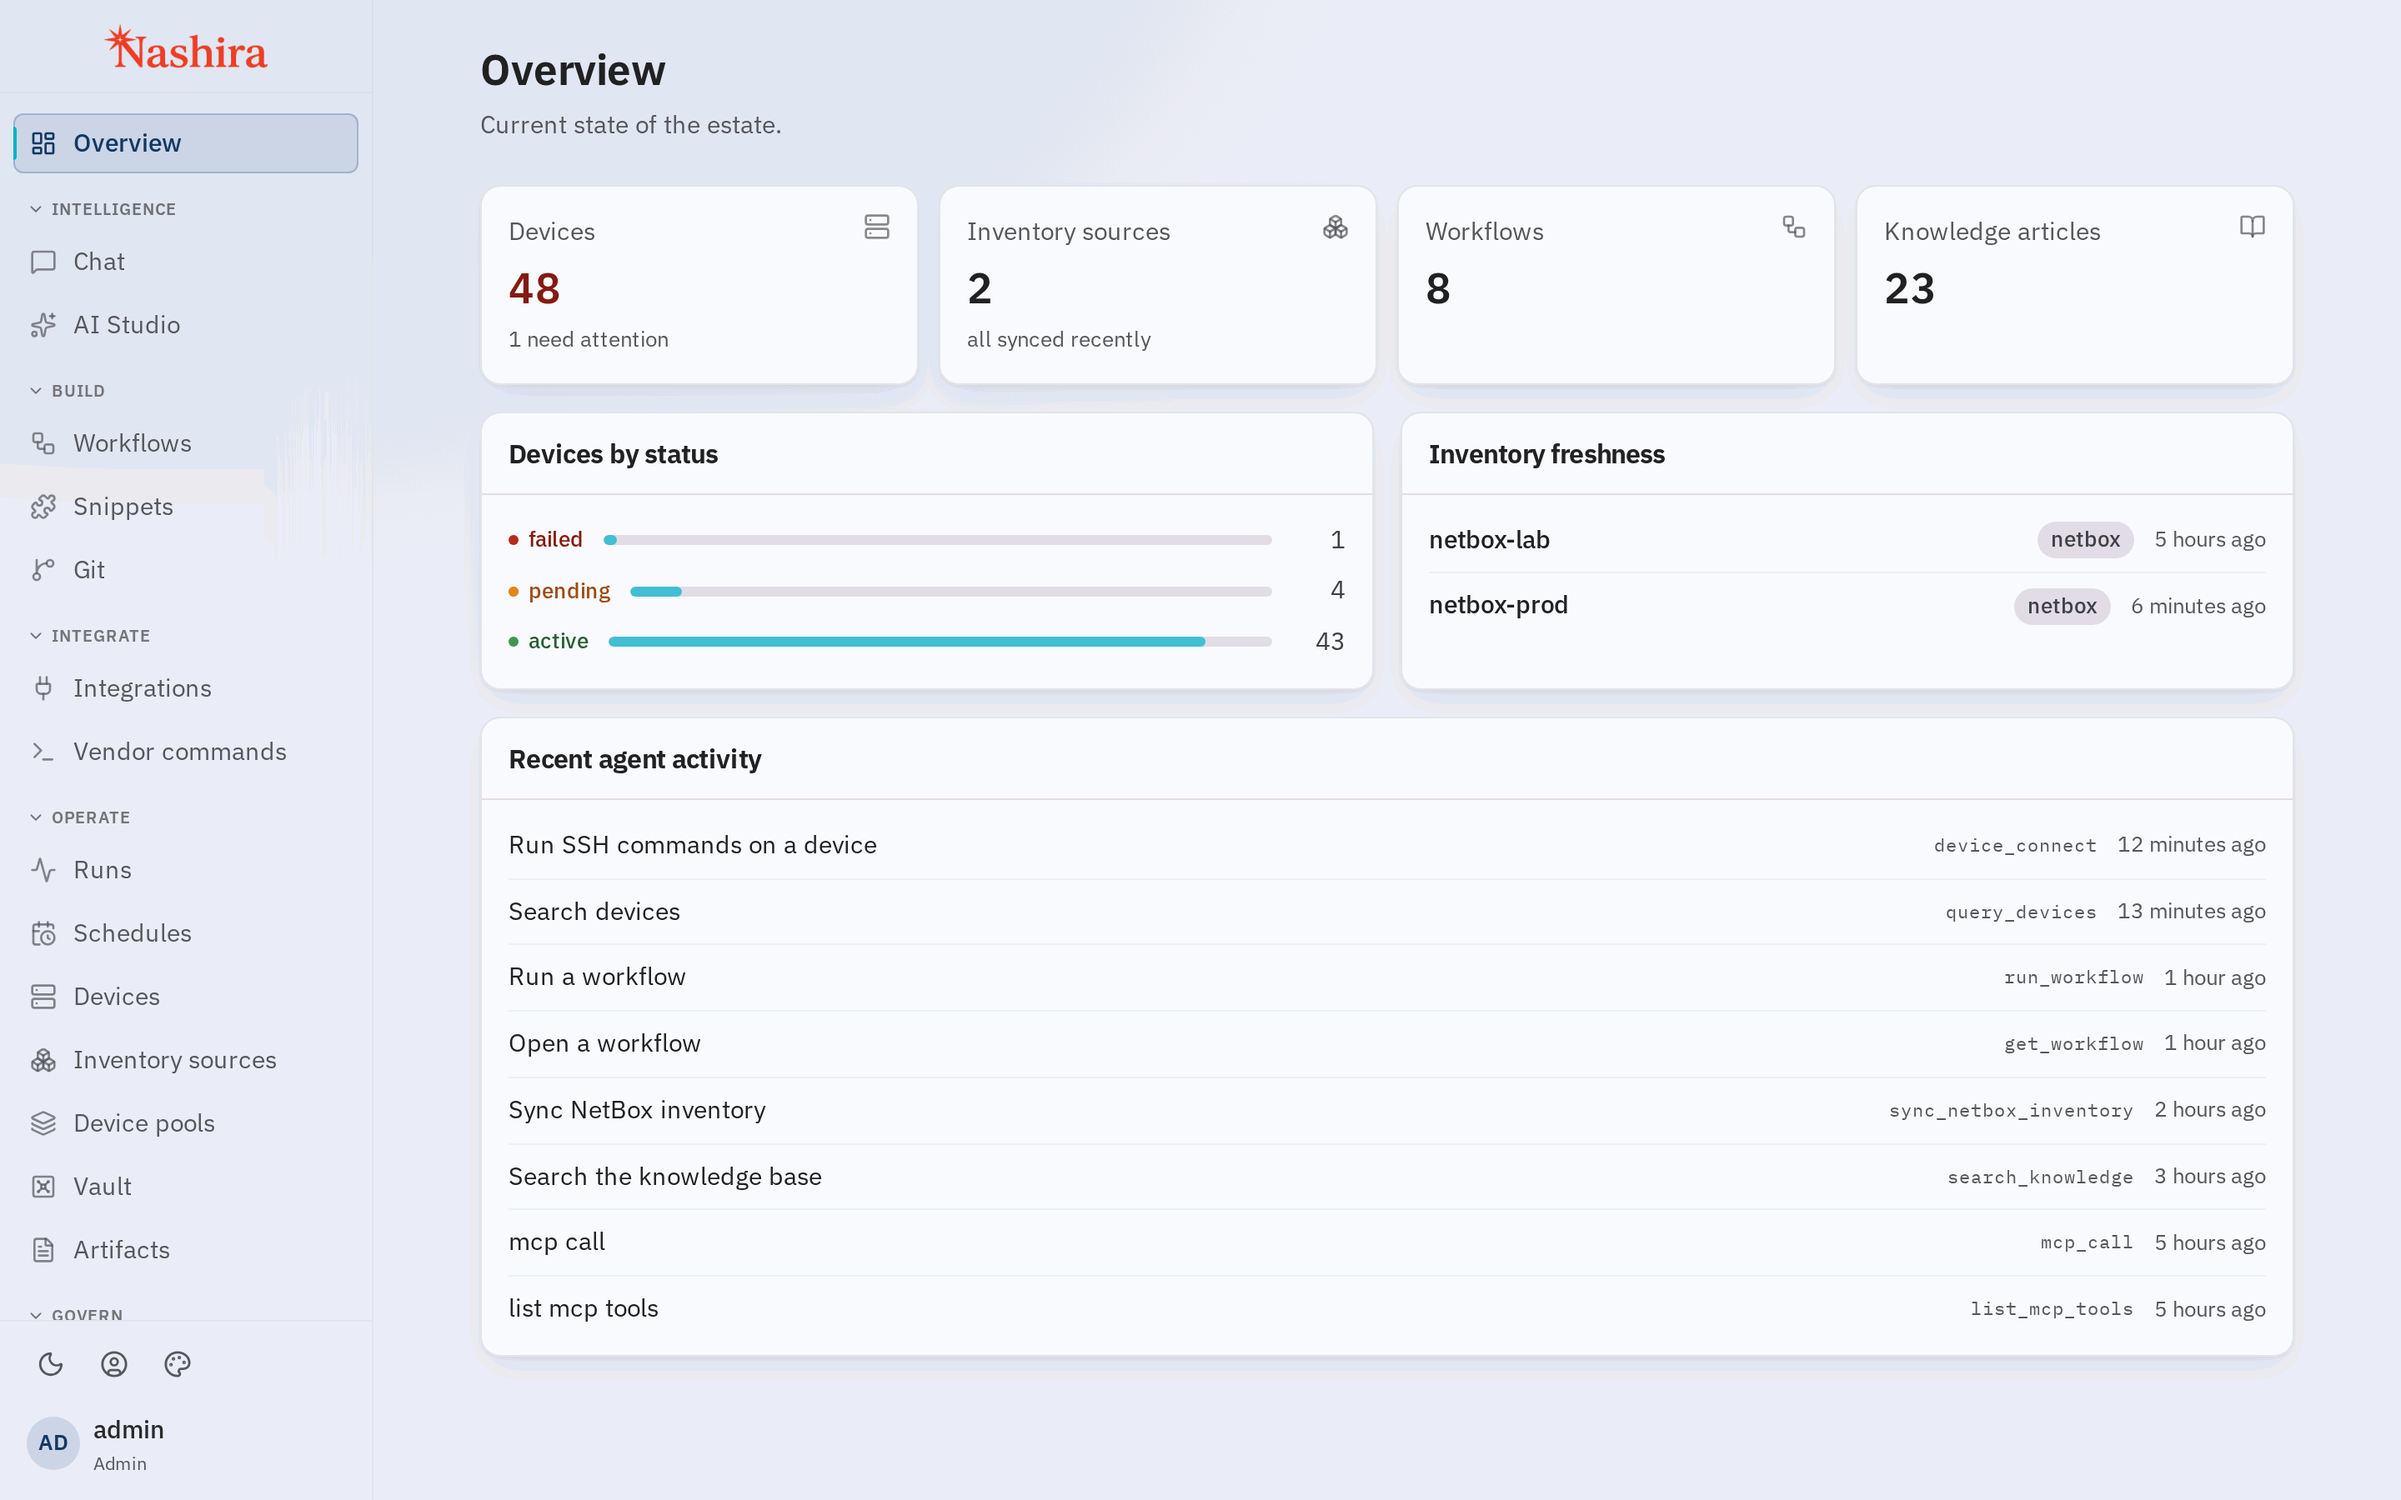
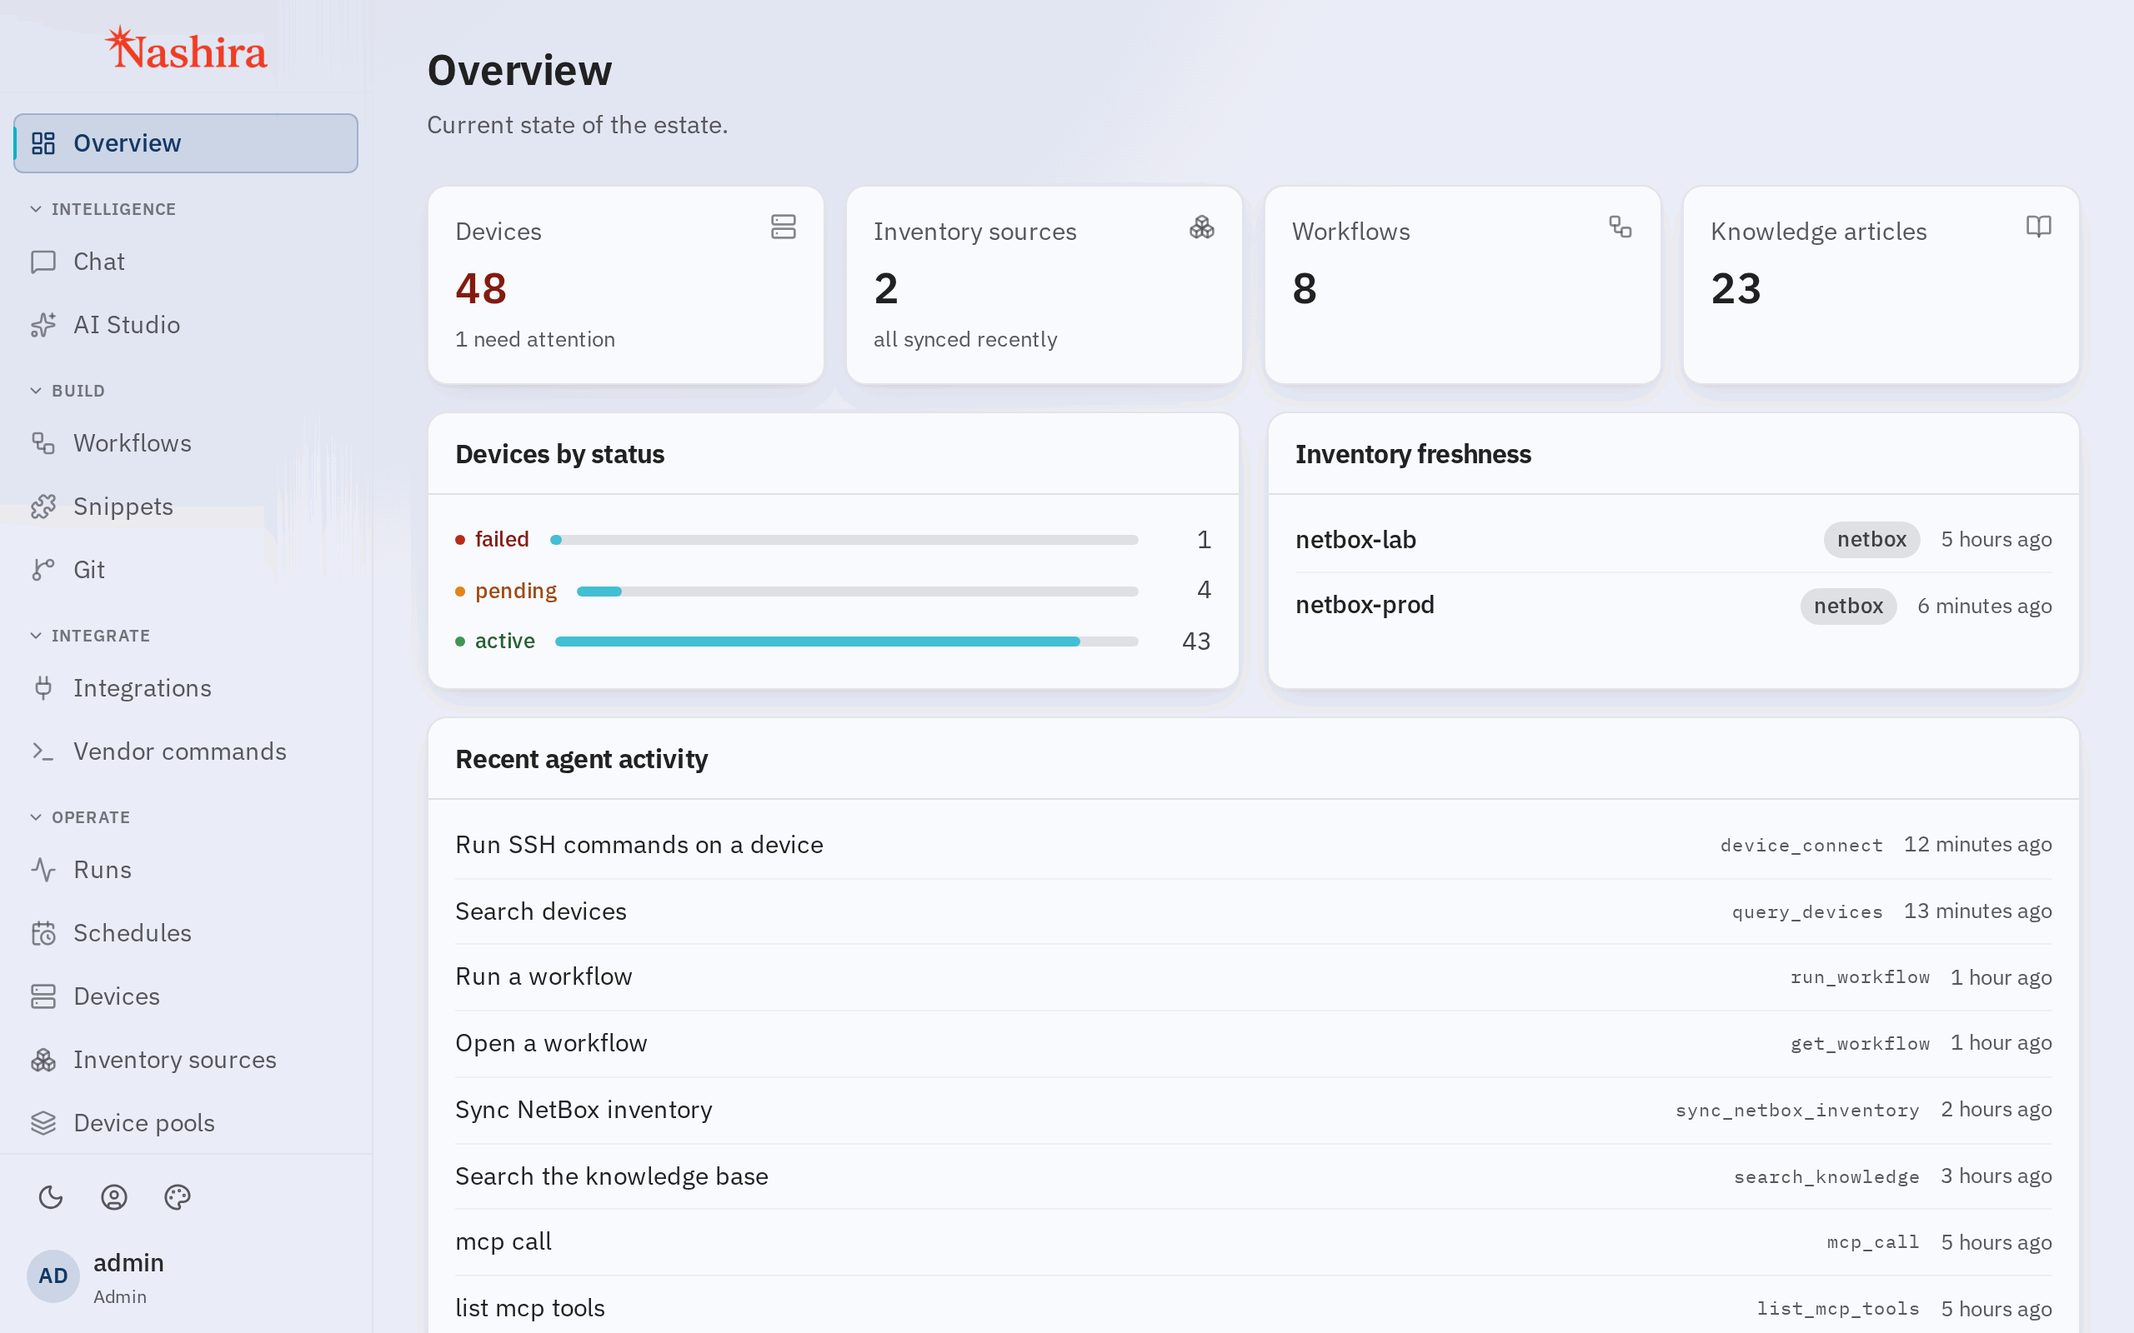
README: screenshots one per row at full width, captured narrower
Four screens side by side in a table were too small to read. Each screen now
sits on its own row at the full width of the README, under a one-line
caption, the way most product READMEs show them.

The captures are taken 1280 px wide instead of 1440, so the text in them
stays readable at README width. Two node names in the sample workflow are
shorter so the run's data-flow row fits at that width.

diff --git a/frontend/e2e/readme-shots.capture.ts b/frontend/e2e/readme-shots.capture.ts
@@ -119,13 +119,13 @@ const BGP = wf('bgp-neighbor-health-check');
 // from its snippet, whose handler type decides whether it can be rolled back.
 const NODES = [
 	// rest_call
-	{ id: 'select_devices', snippet_id: id('snippet/inventory-query'), type: 'task', config_overrides: { method: 'GET', url: 'https://netbox.example.com/api/dcim/devices/', query: { site: '{{ input.site }}', role: '{{ input.role }}' } } },
+	{ id: 'find_devices', snippet_id: id('snippet/inventory-query'), type: 'task', config_overrides: { method: 'GET', url: 'https://netbox.example.com/api/dcim/devices/', query: { site: '{{ input.site }}', role: '{{ input.role }}' } } },
 	// ssh, run once per device, read-only
 	{ id: 'collect_bgp', snippet_id: id('snippet/show-bgp-summary'), type: 'task', config_overrides: { device: '{{ device.name }}', command: 'show bgp summary', changes: false } },
 	// transform
-	{ id: 'parse_neighbors', snippet_id: id('snippet/parse-bgp-summary'), type: 'task', config_overrides: { input: '{{ steps.collect_bgp.output }}' } },
+	{ id: 'parse_bgp', snippet_id: id('snippet/parse-bgp-summary'), type: 'task', config_overrides: { input: '{{ steps.collect_bgp.output }}' } },
 	// transform
-	{ id: 'flag_down', snippet_id: id('snippet/sessions-not-established'), type: 'decision', config_overrides: { input: '{{ steps.parse_neighbors.output }}' } },
+	{ id: 'flag_down', snippet_id: id('snippet/sessions-not-established'), type: 'decision', config_overrides: { input: '{{ steps.parse_bgp.output }}' } },
 	// integration_action
 	{ id: 'open_ticket', snippet_id: id('snippet/servicenow-incident'), type: 'task', config_overrides: { integration: 'servicenow', action: 'create_incident', body: { short_description: 'BGP sessions down in {{ input.site }}' } } },
 	// slack_message
@@ -158,9 +158,9 @@ const RUNS = [
 const DETAIL = RUNS[1];
 // Steps run one after another: each starts when the one before it ended.
 const STEP_PLAN: [node: string, result: string, ms: number, outputChars: number][] = [
-	['select_devices', 'no_change', 240, 310],
+	['find_devices', 'no_change', 240, 310],
 	['collect_bgp', 'no_change', 18_400, 5120],
-	['parse_neighbors', 'no_change', 310, 1840],
+	['parse_bgp', 'no_change', 310, 1840],
 	['flag_down', 'no_change', 40, 220],
 	['open_ticket', 'changed', 1900, 410],
 	['notify_noc', 'changed', 620, 96]
@@ -325,8 +325,8 @@ async function mockAll(page: Page) {
 }
 
 /** Each capture, and the content that proves its data has arrived. */
-const SHOTS: { name: string; path: string; loaded: (page: Page) => Promise<unknown> }[] = [
-	{ name: 'chat', path: `/chat/${CID}`, loaded: (p) => expect(p.getByText('What I would do next')).toBeVisible() },
+const SHOTS: { name: string; path: string; height?: number; loaded: (page: Page) => Promise<unknown> }[] = [
+	{ name: 'chat', path: `/chat/${CID}`, height: 900, loaded: (p) => expect(p.getByText('What I would do next')).toBeVisible() },
 	{
 		name: 'overview',
 		path: '/overview',
@@ -365,8 +365,11 @@ const SHOTS: { name: string; path: string; loaded: (page: Page) => Promise<unkno
 	}
 ];
 
+const WIDTH = 1280;
+
 test.use({
-	viewport: { width: 1440, height: 900 },
+	// A README column is under 900 px wide, so a narrower capture keeps the text readable.
+	viewport: { width: WIDTH, height: 800 },
 	deviceScaleFactor: 2,
 	locale: 'en-US',
 	timezoneId: 'UTC',
@@ -383,6 +386,7 @@ for (const mode of ['light', 'dark'] as const) {
 				// The shell's own session check is left unanswered on purpose, as in the other specs.
 				if (path.startsWith('/api/') && path !== '/api/auth/me') unanswered.push(`${request.method()} ${path}`);
 			});
+			if (shot.height) await page.setViewportSize({ width: WIDTH, height: shot.height });
 			await page.clock.setFixedTime(NOW);
 			await page.addInitScript(seed(mode));
 			await mockAll(page);

diff --git a/README.md b/README.md
@@ -8,16 +8,25 @@ Network operations are Nashira's most extensively validated domain today. The pl
 
 ## What it looks like
 
-<img alt="Nashira chat: the agent reports BGP session state on two edge routers and proposes next steps" src="docs/images/chat.png">
+<p align="center"><img alt="Nashira chat: the agent reports BGP session state on two edge routers and proposes next steps" src="docs/images/chat.png" width="900"></p>
 
 Ask in plain language. The agent reads the connected systems, reports what it found and proposes next steps; changes follow the configured permissions, policies and confirmations.
 
-| | |
-| --- | --- |
-| <img alt="A workflow with its execution plan and its non-reversible steps marked" src="docs/images/workflow.png"> | <img alt="One workflow run: status, data flow between steps and inputs" src="docs/images/run.png"> |
-| **Workflow plan.** Each step in order, with the steps that cannot be rolled back automatically marked. | **Run detail.** Status, data flow between steps, inputs and per-step results. |
-| <img alt="The list of workflow runs across all workflows" src="docs/images/runs.png"> | <img alt="The overview dashboard" src="docs/images/overview.png"> |
-| **Runs.** Every execution, what started it, and how it ended. | **Overview.** Devices by status, inventory freshness and recent agent activity. |
+**Workflow plan.** Each step in order, with the steps that cannot be rolled back automatically marked.
+
+<p align="center"><img alt="A workflow with its execution plan and its non-reversible steps marked" src="docs/images/workflow.png" width="900"></p>
+
+**Run detail.** Status, data flow between steps, inputs and per-step results.
+
+<p align="center"><img alt="One workflow run: status, data flow between steps and inputs" src="docs/images/run.png" width="900"></p>
+
+**Runs.** Every execution, what started it, and how it ended.
+
+<p align="center"><img alt="The list of workflow runs across all workflows" src="docs/images/runs.png" width="900"></p>
+
+**Overview.** Devices by status, inventory freshness and recent agent activity.
+
+<p align="center"><img alt="The overview dashboard" src="docs/images/overview.png" width="900"></p>
 
 The screenshots use invented data.
 
